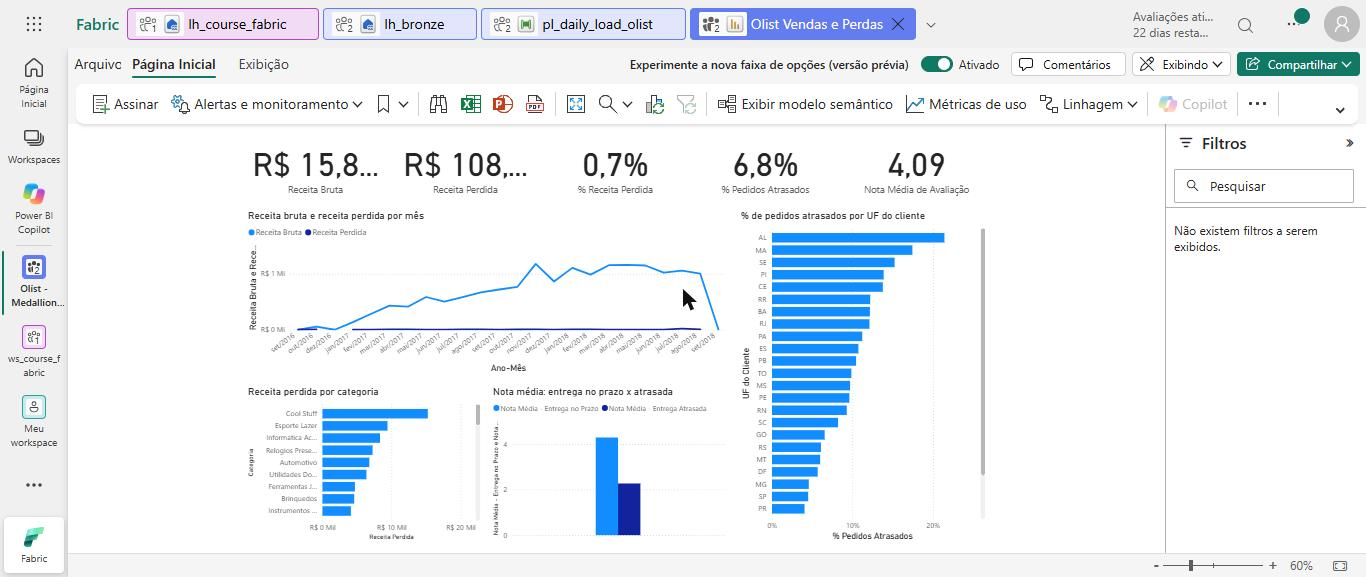
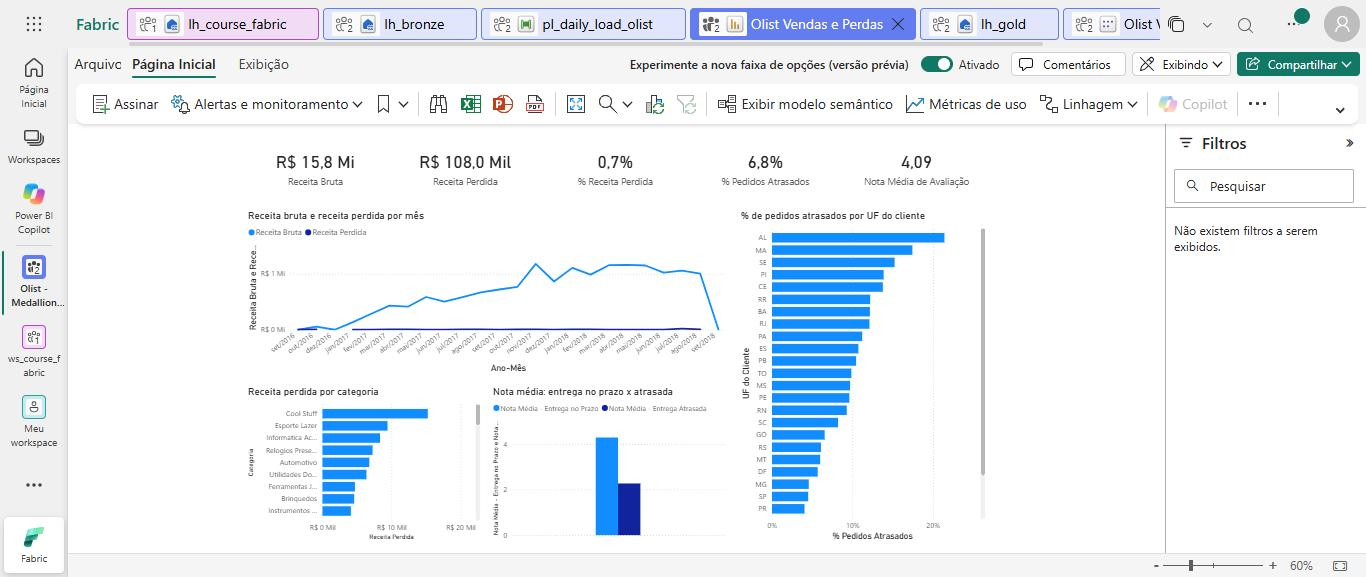
Atualiza captura do relatorio e adiciona screenshots ao README em ingles

diff --git a/README.en.md b/README.en.md
@@ -82,6 +82,22 @@ The DEV workspace is connected to this repository (folder `/fabric`) through **F
 5. Open `pl_daily_load_olist`, check each notebook activity points to the workspace notebook, and **Run**.
 6. Open the **Olist Vendas e Perdas** report, or `fabric/Olist Vendas e Perdas.pbip` in Power BI Desktop.
 
+## Screenshots
+
+First end-to-end run on a Fabric trial capacity, with the workspace connected to this repository through Git integration.
+
+**"Perdas no E-commerce" report** on the Direct Lake model: BRL 15.8M gross revenue, 0.7% lost to cancellations and unavailability, 6.8% of delivered orders late, and the average review score drops from ~4.3 (on time) to ~2.3 (late).
+
+![Report](docs/img/05-report.jpg)
+
+**`pl_daily_load_olist`**: Bronze, Silver, Gold, then model rebind and framing. The first Gold attempt hit the trial capacity's concurrent Spark session limit (HTTP 430) and the activity retry handled it.
+
+![Pipeline run](docs/img/02-pipeline-run.jpg)
+
+| Lineage | Gold lakehouse schemas | Semantic model |
+|---|---|---|
+| ![Lineage](docs/img/01-workspace-lineage.jpg) | ![lh_gold](docs/img/03-lakehouse-schemas.jpg) | ![Model](docs/img/04-semantic-model.jpg) |
+
 ## License and data
 
 Code under [MIT](LICENSE). Data is **not** included: the *Brazilian E-Commerce Public Dataset by Olist* is distributed on Kaggle under [CC BY-NC-SA 4.0](https://creativecommons.org/licenses/by-nc-sa/4.0/).
